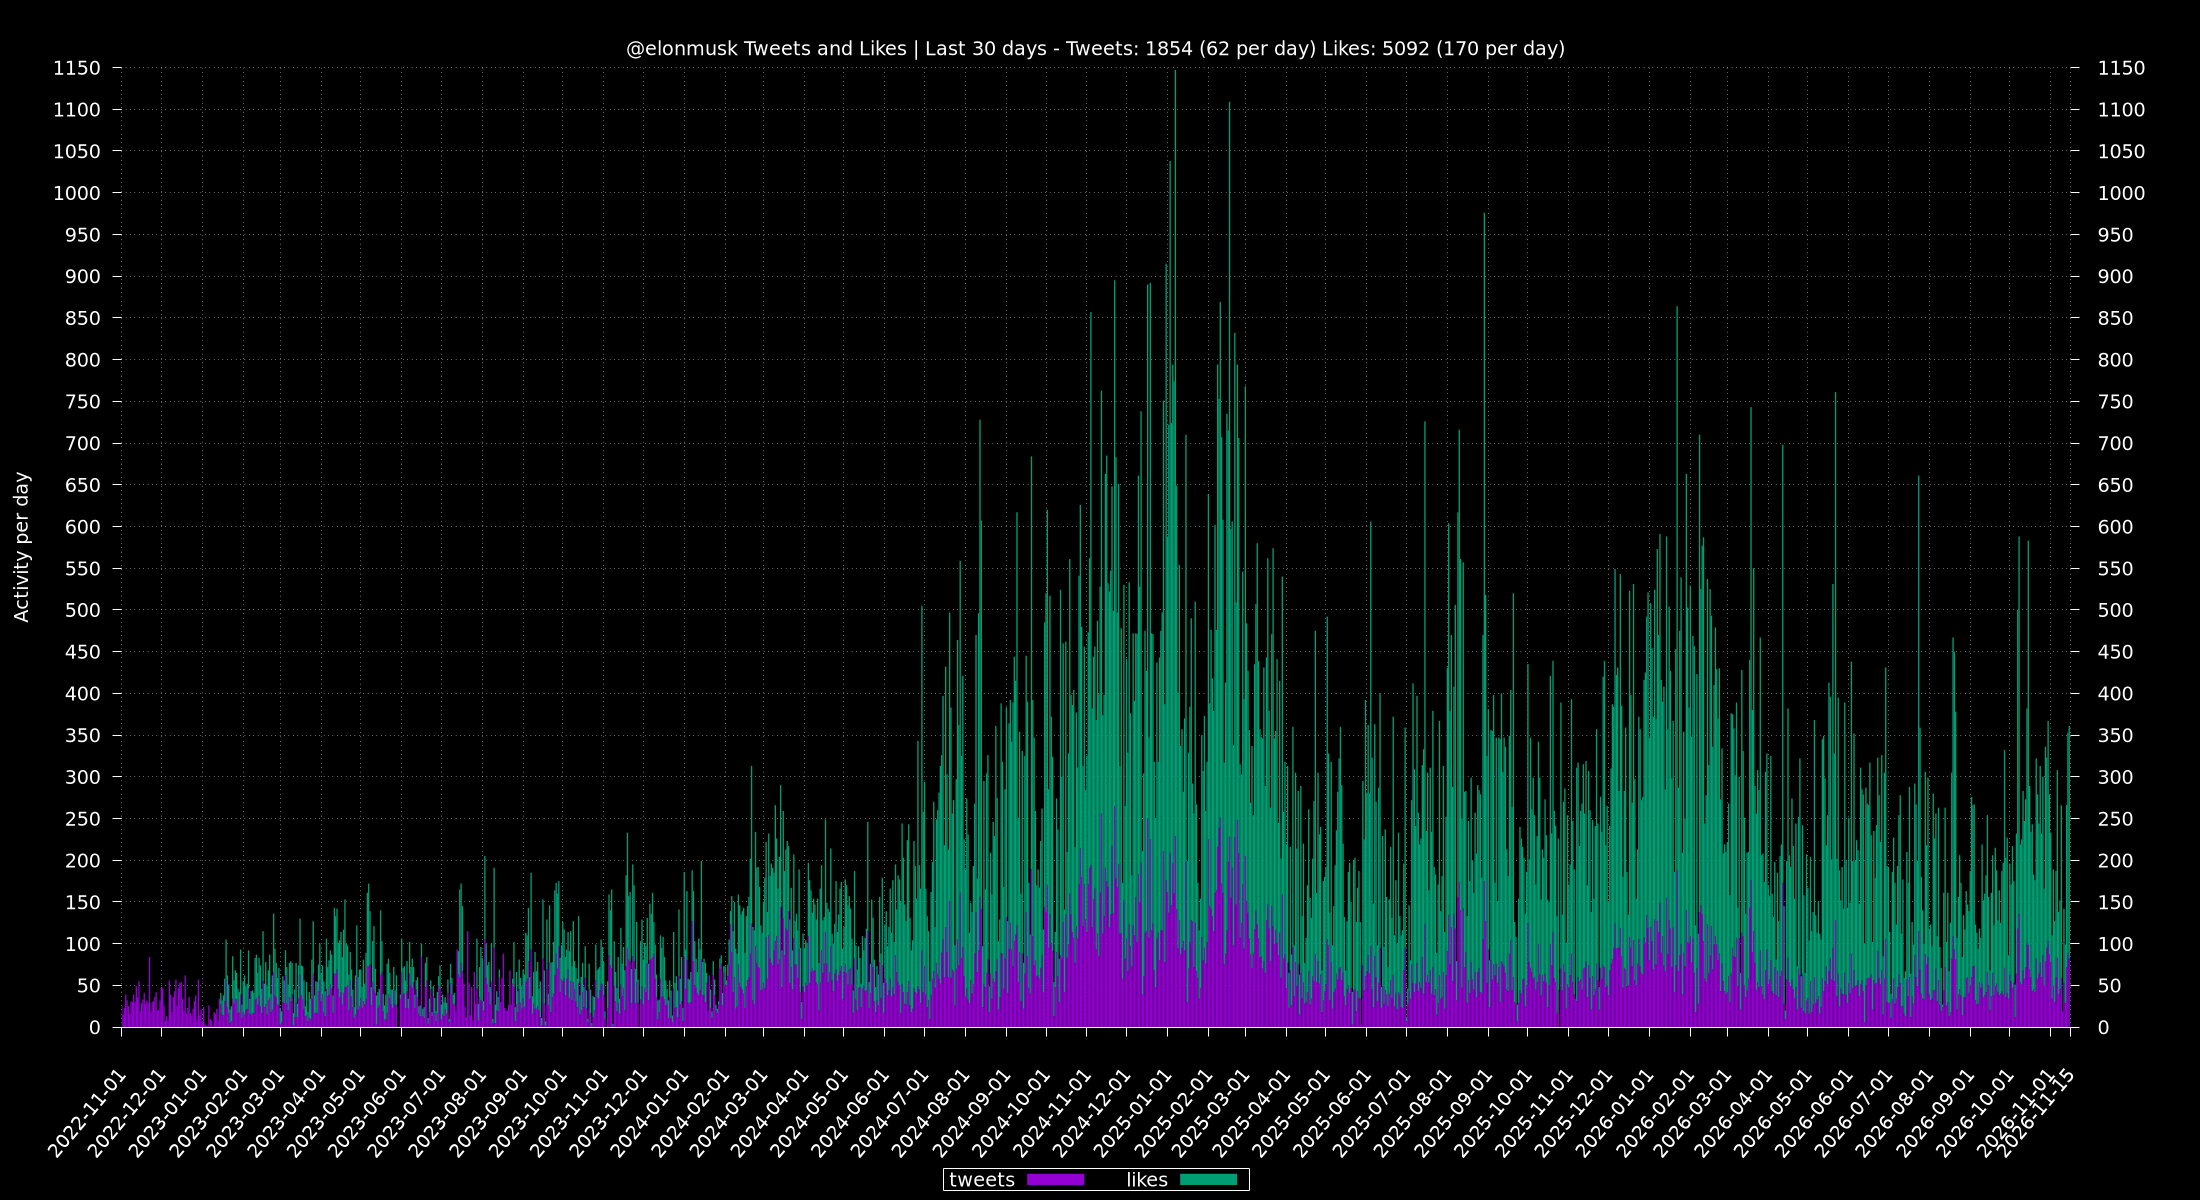
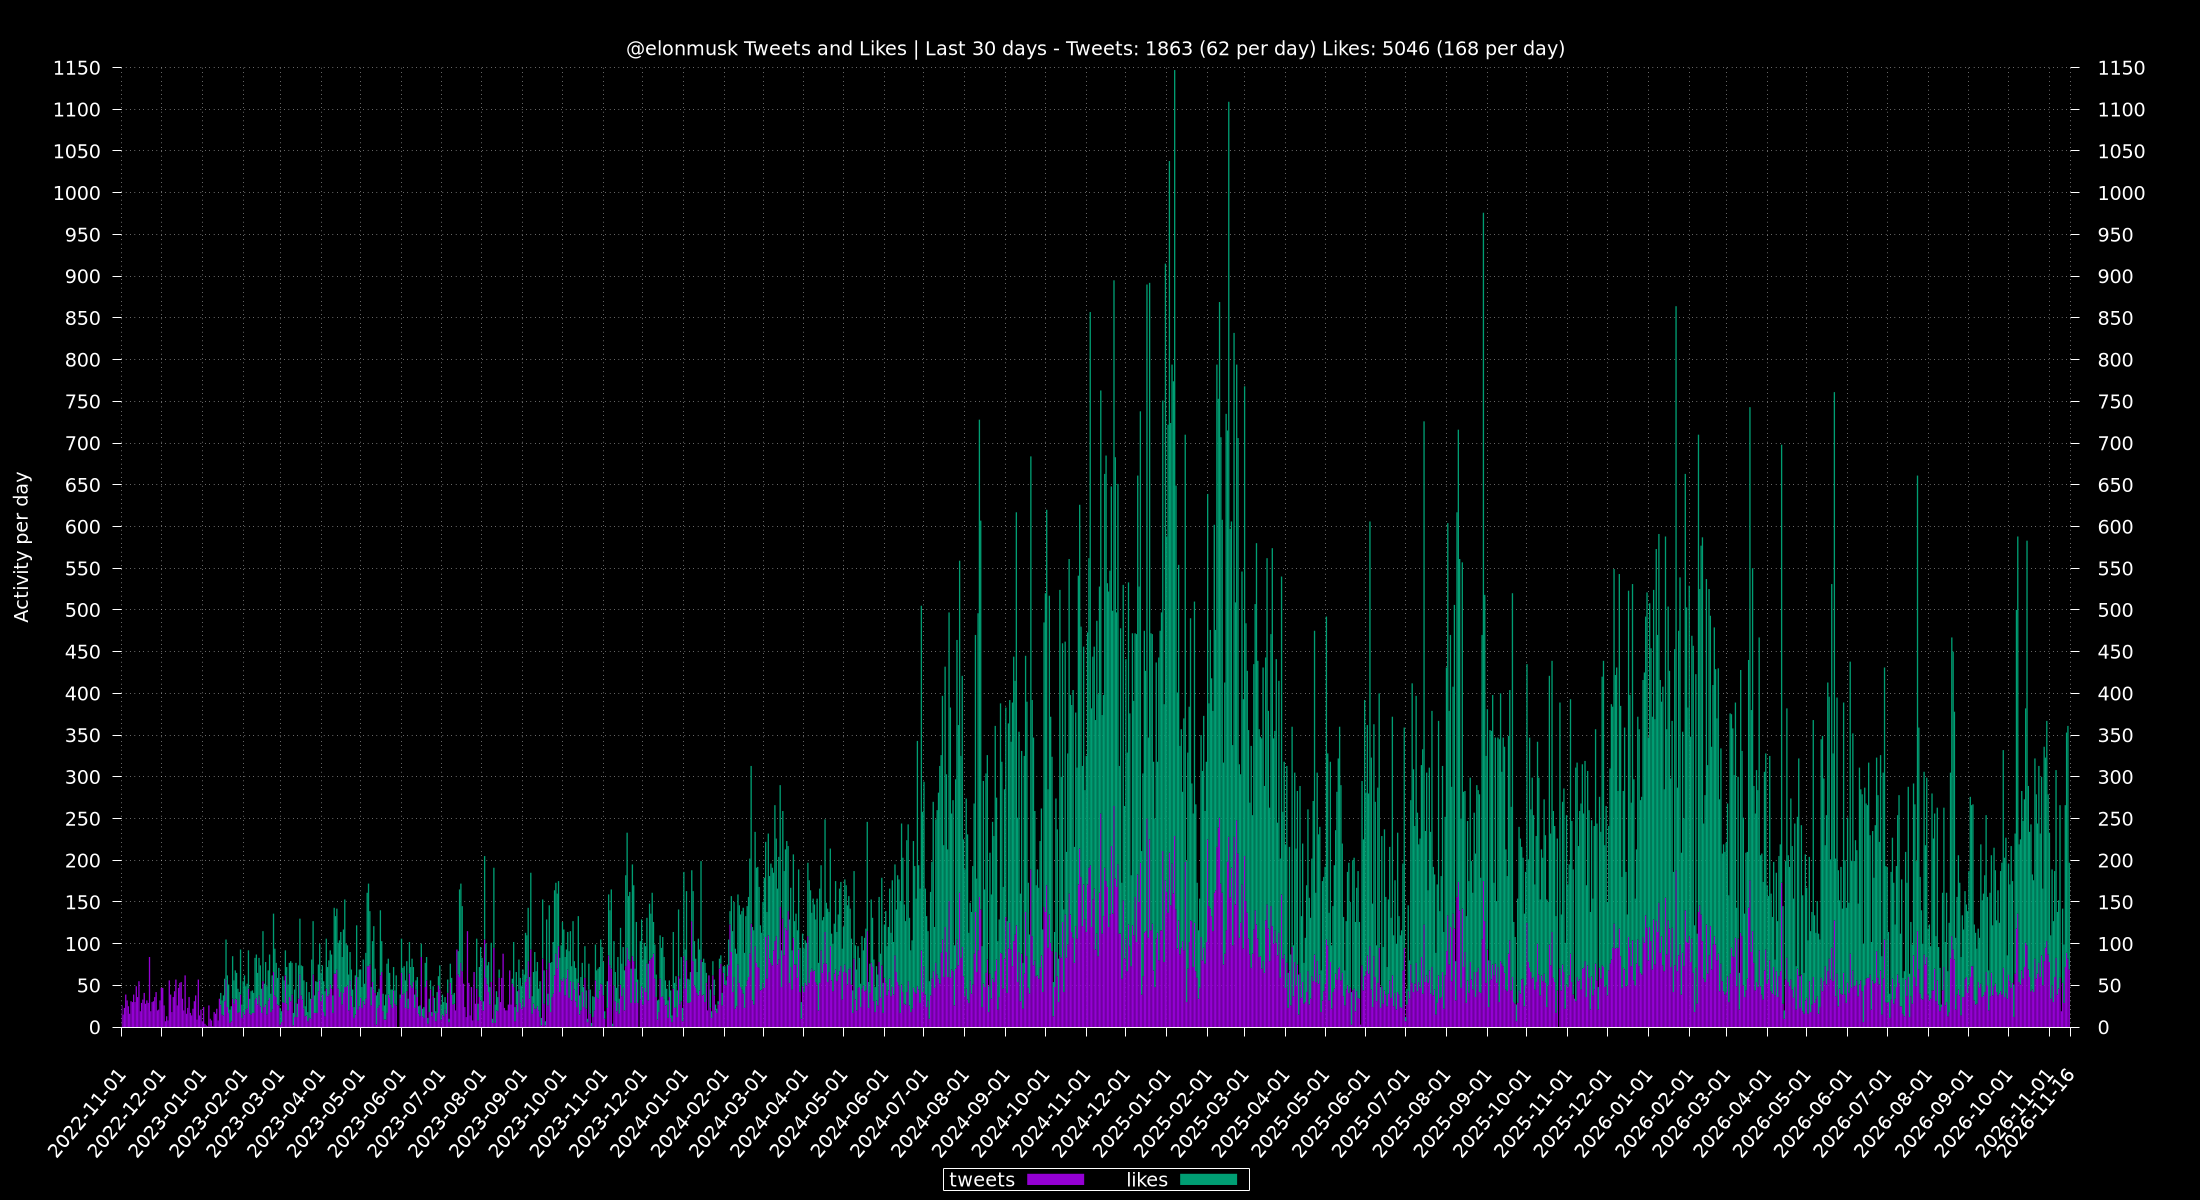
update via cron

Changed region(s): [[0.1545, 0.2158, 0.9582, 0.8633], [0.1545, 0.8942, 0.9273, 0.9558]]

diff --git a/totals/README.md b/totals/README.md
@@ -1,6 +1,6 @@
 ## Last 30 Days
 Tweets: 1923 (62 per day)\
-Likes: 5312 (171 per day)
+Likes: 5220 (168 per day)
 
 ## 24 Hours
 Max: [**341**](../misc/most-tweets_24-hr.csv) - From `2024-11-23 14:29:53 CST` To `2024-11-24 14:28:44 CST`
